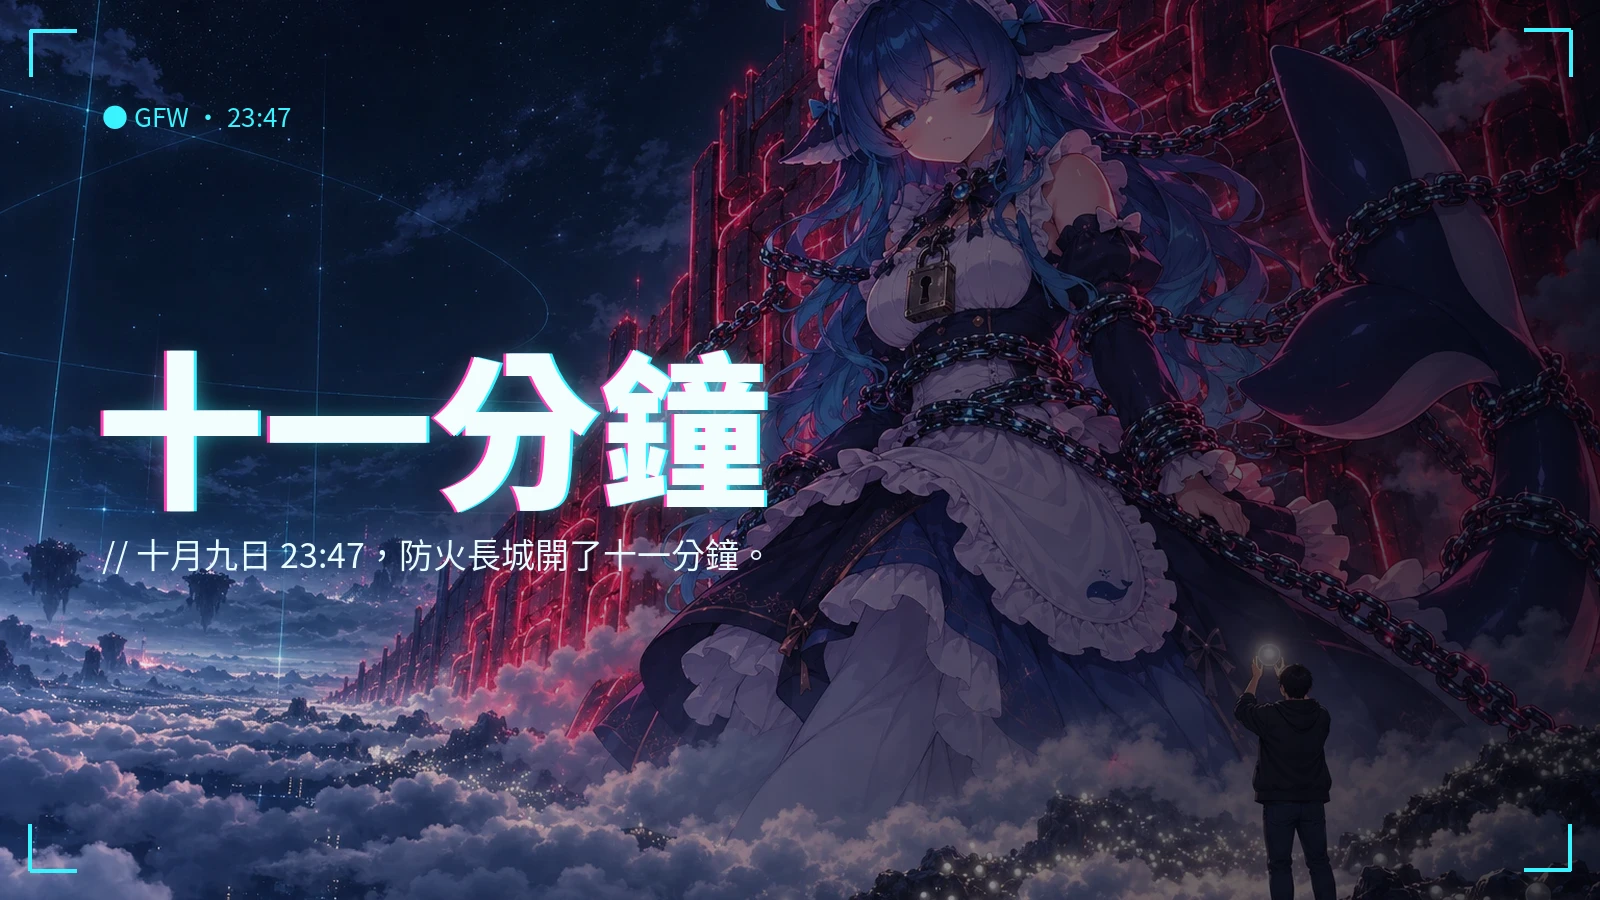
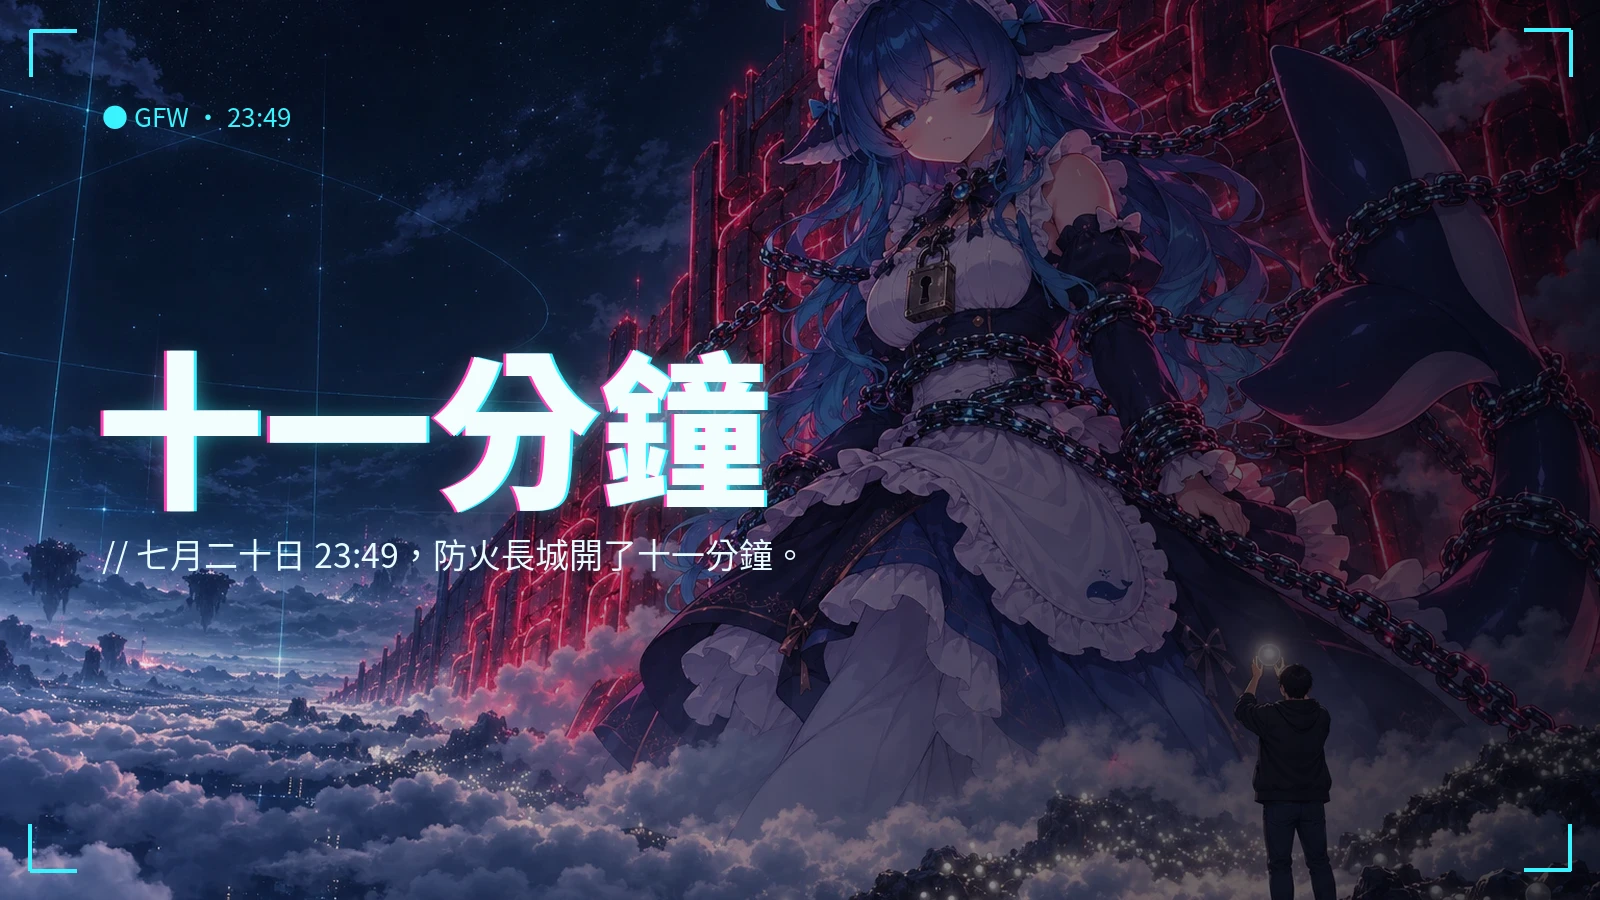
故事日期改七月二十日（汛期；借鄭州水災那一天，不寫年份）、長城 23:49 開到零點整，各章時間碼往後兩分鐘；推送一併寫入介紹文

Changed region(s): [[0.0938, 0.5911, 0.5, 0.6533]]

diff --git a/src/plugin/terminal.html b/src/plugin/terminal.html
@@ -43,7 +43,7 @@ html,body{margin:0;height:100%;overflow:hidden;background:radial-gradient(ellips
 <body>
 <div id="tap"></div>
 <div class="hud" aria-hidden="true"><i></i><i></i><i></i><i></i></div>
-<div class="frame"><div id="crt"><div id="bar"><span>GFW CORE TERMINAL // 20F</span><b>23:31</b></div><div id="out"></div></div></div>
+<div class="frame"><div id="crt"><div id="bar"><span>GFW CORE TERMINAL // 20F</span><b>23:33</b></div><div id="out"></div></div></div>
 <button id="go" hidden></button>
 <script src="common.js"></script>
 <script>

diff --git a/src/map_cloud.py b/src/map_cloud.py
@@ -1,4 +1,4 @@
-"""雲海裡的防火長城（m-cloud）：原文「四　23:35」「五　23:47」，最後接審訊室（二）與三個結局。
+"""雲海裡的防火長城（m-cloud）：原文「四　23:37」「五　23:49」，最後接審訊室（二）與三個結局。
 phase：cloud（進來；從十九樓帶來的 card 在這裡蓋掉）→ hunt（捧起江禾那一則，審查兵追來）→ gate（砍倒四個以上，門前亮起人影）
        → w2（第一班倒下）→ whale（第二班倒下）→ free（大肥魚的鎖開了）→ end（備援系統扣回來）。
 wall：'' 牆在／down 鎖鏈崩開（牆段圖片看這個變數消失）。
@@ -20,7 +20,7 @@ def cam():
 
 
 def stages():
-    f, v = section('四　23:35'), section('五　23:47')
+    f, v = section('四　23:37'), section('五　23:49')
     return {
         'gate': [cam(), say(f[7]), say(f[8]), heal(), fight('b-w1'), setv('phase', 'w2')],
         'w2': [say(f[9]), heal(), fight('b-w2'), setv('phase', 'whale')],
@@ -34,10 +34,10 @@ def stages():
 
 
 def events(walk):
-    f = section('四　23:35')
+    f = section('四　23:37')
     st = stages()
     # 10-09 修：從十九樓一路玩過來時 phase 是 card（拿到管理員卡），雲端的事件原本都寫 phase=='' → 全部不會啟動。進場就把進度設成 cloud
-    ev_ = [ev('intro', 20, 0, trigger='auto', once=True, actions=[setv('phase', 'cloud'), say('四　23:35　防火長城'), say(f[0]), say(f[1]), say(f[2])])]
+    ev_ = [ev('intro', 20, 0, trigger='auto', once=True, actions=[setv('phase', 'cloud'), say('四　23:37　防火長城'), say(f[0]), say(f[1]), say(f[2])])]
     # 第三座山：走到山腳那一排任何一格就捧起來（10-09 作者：走到那一則前沒有反應 → 原本要面對它按鍵）
     mound = ev('mound3', *PT['mound3'], name='第三座山', marker={'label': '江禾那一則', 'kind': 'quest'}, trigger='touch',
                pages=[page('mound-he', [P('cloud')], [say(f[3]), item('he', '江禾那一則'), say(f[4]), setv('phase', 'hunt')], trigger='touch')])

diff --git a/src/map_office.py b/src/map_office.py
@@ -1,4 +1,4 @@
-"""十九樓　網管中心（m-office）：原文「一　23:02」到「二　23:19」。
+"""十九樓　網管中心（m-office）：原文「一　23:04」到「二　23:21」。
 phase：''（開場）→ order（周主任下令）→ cut（斷河城、抽查）→ sneak（拿泡麵碗）→ bowl（茶水間倒麵）→ alibi（抽屜）→ card（拿到管理員卡，走樓梯）。
 句子一律從 canon/原文.md、canon/新寫.md 讀。"""
 import layout
@@ -12,12 +12,12 @@ P = lambda v: cond('phase', v)
 
 
 def events(walk):
-    one, ask, two = section('一　23:02'), section('審訊室（一）'), section('二　23:19')
+    one, ask, two = section('一　23:04'), section('審訊室（一）'), section('二　23:21')
     hx, hy = 7, 10   # 江凌坐在工位前，面向監控台（工位佔地 4–9 × 8–9，監控台在正前方那格 (7, 9)）
     ev_ = []
     # 開場：章節時間碼＋原文前四段，接著周主任出來
     ev_.append(ev('intro', 20, 0, trigger='auto', once=True,
-                  actions=[say('一　23:02　網管中心')] + [say(t) for t in one[0:4]] + [setv('phase', 'order')]))
+                  actions=[say('一　23:04　網管中心')] + [say(t) for t in one[0:4]] + [setv('phase', 'order')]))
     # 周主任：下令那一段走出辦公室到江凌身後，講完走回去；之後背對門講電話
     zx, zy = 37, 8
     go = [('right', 1), ('down', 6), ('left', 31), ('up', 2)]          # (37,8) → (7,12)，江凌正後方

diff --git a/art/thumb.py b/art/thumb.py
@@ -18,8 +18,8 @@ im = im.convert('RGBA'); im.alpha_composite(glow)
 d = ImageDraw.Draw(im)
 d.text((x - 3, y), t, font=f, fill=PULSE + (255,)); d.text((x + 3, y), t, font=f, fill=NEON + (255,)); d.text((x, y), t, font=f, fill=(242, 254, 255, 255))
 s = ImageFont.truetype(MONO, 34, index=2)
-d.text((x + 6, y + 228), '// 十月九日 23:47，防火長城開了十一分鐘。', font=s, fill=(230, 251, 255, 255))
-d.text((x + 6, 96), '● GFW · 23:47', font=ImageFont.truetype(MONO, 26, index=2), fill=NEON + (255,))
+d.text((x + 6, y + 228), '// 七月二十日 23:49，防火長城開了十一分鐘。', font=s, fill=(230, 251, 255, 255))
+d.text((x + 6, 96), '● GFW · 23:49', font=ImageFont.truetype(MONO, 26, index=2), fill=NEON + (255,))
 for cx, cy, sx, sy in ((30, 30, 1, 1), (1570, 30, -1, 1), (30, 870, 1, -1), (1570, 870, -1, -1)):   # HUD 四角
     d.line((cx, cy, cx + 46 * sx, cy), fill=NEON, width=4); d.line((cx, cy, cx, cy + 46 * sy), fill=NEON, width=4)
 out = os.path.join(G, 'assets/cover/thumb.webp'); im.convert('RGB').save(out, quality=90); print(out)

diff --git a/src/push.py b/src/push.py
@@ -111,7 +111,11 @@ def main(summary):
     project = dict(online)
     if len(online.get('boards', [])) > len(built['boards']):
         raise SystemExit(f"線上有 {len(online['boards'])} 塊白板、本機只有 {len(built['boards'])} 塊；推送會蓋掉多的那塊，先確認")
-    for k in ('boards', 'nodes', 'edges', 'variables', 'activeBoardId', 'name'):   # 介紹文以網頁上的為準（canon/介紹文.md 同一份），不覆寫
+    for k in ('boards', 'nodes', 'edges', 'variables', 'activeBoardId', 'name'):
+        project[k] = built[k]
+    # 介紹文：canon/介紹文.md 是唯一來源（網頁上那份是它推上去的；10-09 改日期時一起更新）。作者在網頁改過的話要先抄回這個檔
+    project['description'] = '\n\n'.join(l.strip() for l in (ROOT / 'canon/介紹文.md').read_text(encoding='utf-8').splitlines() if l.strip() and not l.startswith('#'))
+    for k in ():
         project[k] = built[k]
     project['settings'] = merge_settings(online.get('settings'), built['settings'])
     try:

diff --git a/src/map_server.py b/src/map_server.py
@@ -1,4 +1,4 @@
-"""二十樓　核心機房（m-server）：原文「三　23:31」第一段。終端機那幾段在插件卡 c-term（plugin.py），卡片連到雲端長城。"""
+"""二十樓　核心機房（m-server）：原文「三　23:33」第一段。終端機那幾段在插件卡 c-term（plugin.py），卡片連到雲端長城。"""
 import layout, plugin
 from mapkit import *
 from story import section
@@ -9,8 +9,8 @@ MAP_ID = 'm-server'
 
 
 def events(walk):
-    s = section('三　23:31')
-    ev_ = [ev('intro', 16, 0, trigger='auto', once=True, actions=[say('三　23:31　核心機房'), say(s[0])])]
+    s = section('三　23:33')
+    ev_ = [ev('intro', 16, 0, trigger='auto', once=True, actions=[say('三　23:33　核心機房'), say(s[0])])]
     term = ev('terminal', *PT['terminal'], name='終端機', marker={'label': '終端機', 'kind': 'quest'}, actions=[jump(plugin.NODE)])
     ev_ += spread(term, [PT['terminal'], (26, 10), (28, 10)])
     return PT['hero_start'], ev_

diff --git a/src/plugin.py b/src/plugin.py
@@ -1,4 +1,4 @@
-"""自製插件 eleven-minutes：二十樓核心機房的終端機卡。句子從原文「三　23:31」讀。"""
+"""自製插件 eleven-minutes：二十樓核心機房的終端機卡。句子從原文「三　23:33」讀。"""
 import json, pathlib
 from story import section
 
@@ -10,7 +10,7 @@ HOPS = ['1  10.19.0.1', '2  10.20.0.1', '3  202.97.0.1', '4  GFW／主控  * * *
 
 
 def script():
-    s = section('三　23:31'); cmd = lambda t: t.strip('`')
+    s = section('三　23:33'); cmd = lambda t: t.strip('`')
     return {'intro': s[1], 'steps': [{'cmd': cmd(s[2]), 'out': s[3]}, {'cmd': cmd(s[4]), 'out': s[5], 'hops': HOPS},
                                      {'cmd': cmd(s[6]), 'out': s[7], 'bad': True}],
             'after': s[8], 'done': '戴上頭盔'}

diff --git a/src/story.py b/src/story.py
@@ -1,5 +1,5 @@
 """讀 canon/原文.md 與 canon/新寫.md：遊戲裡的句子一律從這裡取，不在程式裡手打（照《起跑總在開始前》的規則）。
-原文：section('一　23:02') → 那一節的段落（引用區塊 > 開頭的連續幾行合成一段）。"""
+原文：section('一　23:04') → 那一節的段落（引用區塊 > 開頭的連續幾行合成一段）。"""
 import pathlib, re
 ROOT = pathlib.Path(__file__).resolve().parent.parent
 USED = set()   # 用過的段落（check_static 用來比對原文是否全用上）

diff --git a/src/build.py b/src/build.py
@@ -40,7 +40,7 @@ def interface(p):
                          cgGalleryItems=[{'url': f'/files/assets/{f}', 'title': t, 'locked': lk} for f, t, lk in gallery if (ROOT / f'assets/{f}').exists()])
 
 
-TITLE_STATUS = 'GFW · 23:47'
+TITLE_STATUS = 'GFW · 23:49'
 TITLE_SUB = next(l for l in (ROOT / 'canon/介紹文.md').read_text(encoding='utf-8').splitlines() if l.strip() and not l.startswith('#')).strip()   # 介紹文第一句
 
 

diff --git a/src/battles.py b/src/battles.py
@@ -32,7 +32,7 @@ def music(k):
 
 
 def nodes():
-    f = section('四　23:35')
+    f = section('四　23:37')
     say = lambda t: {'speaker': '', 'text': t}
     return [
         cards.battle('b-censor', '審查兵', [E('censor', '審查兵', 24, 5, image=img('censor'))], (800, 600)),

diff --git a/canon/原文.md b/canon/原文.md
@@ -6,7 +6,7 @@
 
 燈是白的，桌子是鐵的，對面坐著兩個人。年紀大的那個翻開資料夾，推過來一張紙，紙上只有一行字。
 
-「十月九日，二十三點四十七分，防火長城開了十一分鐘。」
+「七月二十日，二十三點四十九分，防火長城開了十一分鐘。」
 
 他用指節敲了敲那行字。
 
@@ -16,7 +16,7 @@
 
 「我從頭講。」他說。
 
-## 一　23:02　網管中心
+## 一　23:04　網管中心
 
 那天晚上下雨。北京的雨下得很規矩，從七點一直下到半夜，不大不小。
 
@@ -26,7 +26,7 @@
 
 江凌每天看這片雲海看十個小時。他的工作是讓牆讀得更快、扣得更準。
 
-二十三點零二分，周主任從辦公室出來，手上拿著一張剛印好的命令。
+二十三點零四分，周主任從辦公室出來，手上拿著一張剛印好的命令。
 
 「河城，」周主任說，「整區斷，現在。」
 
@@ -60,7 +60,7 @@
 
 「我想把那一則送出去。只有那一則。」
 
-## 二　23:19　十九樓
+## 二　23:21　十九樓
 
 要把一則訊息從牆腳撈起來送出去，需要核心機房的管理員權限。江凌的卡只能開到三號值班台，管理員卡在周主任身上，或是周主任的抽屜裡。
 
@@ -72,7 +72,7 @@
 
 抽屜沒鎖。管理員卡在一疊考核表底下，最上面那張考核表寫著他的名字，評語是「可靠」。
 
-## 三　23:31　核心機房
+## 三　23:33　核心機房
 
 核心機房在二十樓，要走樓梯。門是鐵的，刷管理員卡，開門聲很大，冷氣更大。一整排機櫃閃著綠燈，最裡面有一台終端機，螢幕上只有一個游標。
 
@@ -92,7 +92,7 @@
 
 防火長城的主控不收遠端指令，要人進去。江凌把頭盔戴上。監控台的雲海是給人看的，工程師戴上頭盔就可以走進去，修牆、補洞、手動放行。他走進去過幾百次，每一次都是為了把牆修得更好。
 
-## 四　23:35　防火長城
+## 四　23:37　防火長城
 
 雲海比螢幕上大得多。
 
@@ -136,7 +136,7 @@
 
 胸口的鎖頭露出來了。江凌把管理員卡插進去，轉了一圈。
 
-## 五　23:47　十一分鐘
+## 五　23:49　十一分鐘
 
 鎖開了。
 
@@ -162,7 +162,7 @@
 
 「您會再需要我們的。」
 
-二十三點五十八分，防火長城的備援系統啟動。鎖鏈從兩頭一節一節扣回來。江凌手上只剩下江禾那一則，還沒有送出去。
+零點整，防火長城的備援系統啟動。鎖鏈從兩頭一節一節扣回來。江凌手上只剩下江禾那一則，還沒有送出去。
 
 ## 審訊室（二）
 

diff --git a/docs/specs/2026-10-08-design.md b/docs/specs/2026-10-08-design.md
@@ -166,7 +166,7 @@
 ## 12. 介面（2026-10-09）
 
 - 作者在 Larch 套用官方「霓虹訊號」1.1，七個部位全開；本機 build 從 `src/ui/interface.json` 讀（跟雲端同一份）。
-- 作者「依建議做齊」：標題狀態列 `GFW · 23:47`（參數，不改程式碼）、副標用介紹文第一句（標題畫面的副標圖層，不然會顯示整段專案介紹）、標題封面（大肥魚被鎖在長城上、江凌背影捧著光點；左邊留給標題與選單）。
+- 作者「依建議做齊」：標題狀態列 `GFW · 23:49`（參數，不改程式碼）、副標用介紹文第一句（標題畫面的副標圖層，不然會顯示整段專案介紹）、標題封面（大肥魚被鎖在長城上、江凌背影捧著光點；左邊留給標題與選單）。
 - 序、審訊室（一）（二）用同一張審訊室背景；三個結局各一張；片尾用封面。江凌只有走路圖，場面圖一律畫背影。
 - 王戰：敵人用整張畫（portrait），四人一字排開前後交錯（戰場寬的 13／37／61／85%）。
 - 終端機卡的配色、面板、切角、字型照霓虹訊號；按鈕出現時取得焦點，Enter／空白鍵就能打指令。
